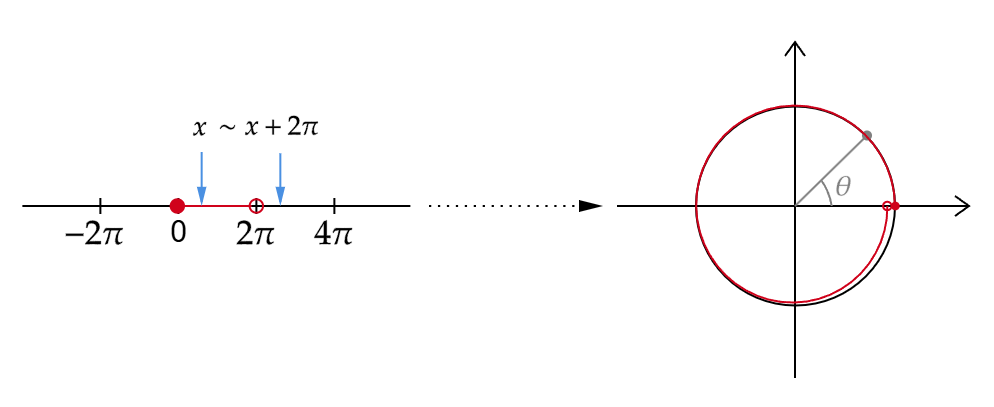
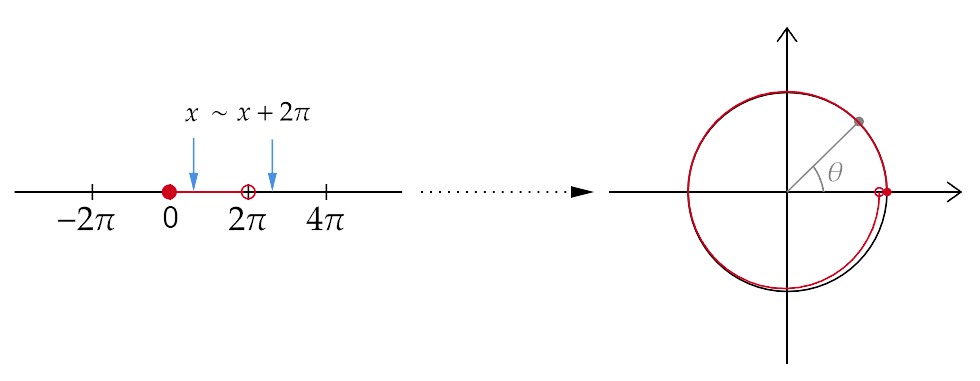
1

diff --git a/preliminaries/map.html b/preliminaries/map.html
@@ -356,11 +356,12 @@
                     </li>
                 </ul>
                 したがって，商空間$\mathbb{R}/\sim$は円周$S^1=\{e^{i\theta}\mid\theta\in[0,2\pi)\}$とみなすことができる．
-            </div>
-            <figure style="text-align: center;">
-                    <img src="circle.png" style="width: 90%;">
+                <figure style="text-align: center;">
+                    <img src="circle.png" style="width: 100%;">
                     <figcaption>商空間$\mathbb{R}/\sim$としての円周$S^1$</figcaption>
                 </figure>
+            </div>
+            
             <p>
                 上の例のように，「点の近さ」の概念は位相幾何学において重要である．
             </p>
